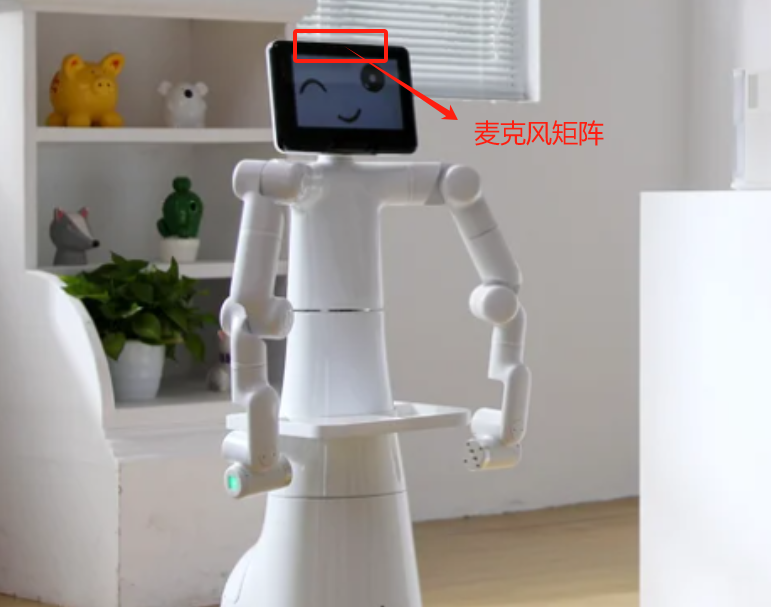
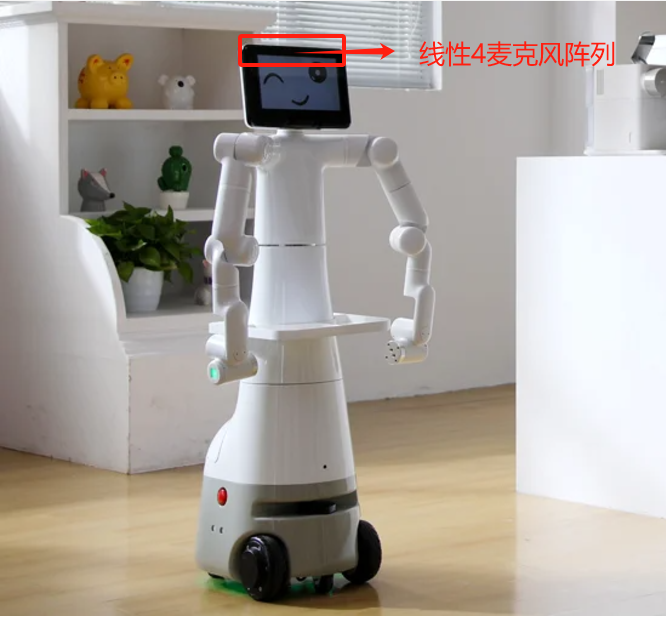
Update 6.1.7-VoiceFunction.md

diff --git a/6-SDKDevelopment/6.1-Python/6.1.7-VoiceFunction.md b/6-SDKDevelopment/6.1-Python/6.1.7-VoiceFunction.md
@@ -12,51 +12,15 @@ The linear microphone array pickup picks up sound sources within a specified ang
 
 [https://github.com/elephantrobotics/mercury_speech](https://github.com/elephantrobotics/mercury_speech)
 
-# Functional framework
+# Code flow
 
 Offline wake-up -> recording -> online voice dictation -> online speech synthesis -> play audio
 
-# r818 noise reduction board replaces offline wake-up word
+Code running process: After running the python script, say the wake-up word (Xiaoxiaoxiaowei), start recording after hearing the wake-up word (default 4s), generate a .pcm audio file, and then upload the recording file to iFlytek online, and get the text output by voice dictation. At the same time, upload the text of the conversation to iFlytek online, synthesize the conversation audio and play it out.
 
-1.On Windows computer, open the AIUI serial port debugging tool.
+Online voice dictation and online speech synthesis services need to be applied for by yourself.
 
-![1](../../resources/6-SDKDevelopment/image/VoiceFunction1.png)
-
-2.Select the serial port device corresponding to the signal adapter board. The device name is not unique. Here it is displayed as "COM3".
-
-![2](../../resources/6-SDKDevelopment/image/VoiceFunction2.png)
-
-3.Click "Open Serial Port".
-
-![3](../../resources/6-SDKDevelopment/image/VoiceFunction3.png)
-
-4.In the Send Message box in the lower left corner, fill in the offline wake-up you want to change. For example, Xiaofei Xiaofei corresponds to xiao3 fei1 xiao3 fei1.
-
-```
-{
-    "type": "wakeup_keywords",
-    "content": {
-        "keyword": "xiao3 fei1 xiao3 fei1",
-        "threshold": "900"
-    }
-}
-```
-
-![4](../../resources/6-SDKDevelopment/image/VoiceFunction4.png)
-
-5.Send serial data.
-
-![5](../../resources/6-SDKDevelopment/image/VoiceFunction5.png)
-
-6.After sending the data, wait for about 10 seconds, the device will restart and output version information, indicating that the internal wake-up word has been replaced successfully.
-
-![6](../../resources/6-SDKDevelopment/image/VoiceFunction6.png)
-
-7.Call Xiaofei Xiaofei into the microphone, and the wake-up word and some wake-up angle information will be output.
-
-![7](../../resources/6-SDKDevelopment/image/VoiceFunction7.png)
-
-# iFLYTEK registered user
+# iFLYTEK Application
 
 ```
 https://www.xfyun.cn/
@@ -67,8 +31,6 @@ Log in to the iFlytek open platform, register and log in as a user, and complete
 ![8](../../resources/6-SDKDevelopment/image/VoiceFunction8.png)
 
 ![9](../../resources/6-SDKDevelopment/image/VoiceFunction9.png)
-
-# Obtaining API Authorization
 
 1.Find the console on the main page and click in.
 
@@ -108,7 +70,7 @@ https://www.xfyun.cn/services/online_tts
 
 ![17](../../resources/6-SDKDevelopment/image/VoiceFunction17.png)
 
-7.Just fill in the corresponding parameters of the Python encapsulation interface.
+7.You need to obtain APPID, APISecret, APIKey, Chinese and English parameters, and speech synthesis audio parameters.
 
 ```
 The SpeechManager class is used to manage speech-related functions, including speech wake-up, online speech recognition, online speech synthesis, recording, and playing PCM files.
@@ -124,6 +86,86 @@ Parameters:
 ```
 
 ![18](../../resources/6-SDKDevelopment/image/VoiceFunction18.png)
+
+# Environment Construction
+
+1.Pull code
+
+```
+git clone https://github.com/elephantrobotics/mercury_speech.git
+```
+
+2.Enter the following command in the terminal to install the dependent files.
+
+```
+sudo apt-get install portaudio19-dev python3-dev
+```
+
+```
+cd ~/mercury_speech/
+pip install -r requirement.txt
+```
+
+# Code Sample
+
+1. Check which is the voice module serial port
+
+Enter cutecom in the terminal, open the serial port assistant, and check the serial port device of ttyACM*
+
+The voice module will send a handshake request of "a5 01 01 04 00 00 00 a5 00 00 00 b0" every 500ms.
+
+![22](../../resources/6-SDKDevelopment/image/VoiceFunction22.png)
+
+2. Modify the main.py file terminal port serial port and save it.
+
+3. Enter python main.py in the terminal to run.
+
+```python
+from speechmanager import SpeechManager
+
+if __name__ == "__main__":
+    manager = SpeechManager(APPID='ea8d6b60', 
+                            APISecret='YjcyY2M4NDk0Y2Q4ODY2ZTMxYzk3Y2E3',
+                            APIKey='1bc296f114a83f3f37db4f8ab93837d4',
+                            Recognition_BusinessArgs = {"domain": "iat", "language": "zh_cn", "accent": "mandarin", "vinfo":1,"vad_eos":10000},     #使用中文在线语音听写
+                            # Recognition_BusinessArgs = {"domain": "iat", "language": "en_us", "accent": "mandarin", "vinfo":1,"vad_eos":10000},   #使用英文在线语音听写
+                            Synthesis_BusinessArgs = {"aue": "raw", "auf": "audio/L16;rate=16000", "vcn": "xiaoyan", "tte": "utf8"},                #使用中文在线语音合成
+                            # Synthesis_BusinessArgs = {"aue": "raw", "auf": "audio/L16;rate=16000", "vcn": "x4_enus_luna_assist", "tte": "utf8"},  #使用英文在线语音合成
+                            port = '/dev/ttyACM3',  # 根据实际情况调整串口名称
+                            baudrate = 115200
+                            )
+
+    while True:
+        # 检查是否有新的唤醒信息
+        wakeup_info = manager.get_wakeup_info()
+        if  wakeup_info:
+            print("Wake word detected!")
+            # 处理唤醒信息，例如打印
+            # print(json.dumps(wakeup_info, indent=4))  # 打印抓取的JSON数据
+            # print(f"Wakeup information: {wakeup_info}")
+            print(f"Result: {wakeup_info['content']['result']}")
+            print(f"Info: {wakeup_info['content']['info']}")
+
+            manager.start_recording(4,'/home/elephant/r818.pcm')  # 开始录音4s,并保存为r818.pcm音频文件(绝对路径)
+
+            transcribed_text = manager.online_speech_recognition('/home/elephant/r818.pcm') # 在线语音听写，上传r818.pcm音频文件到科大讯飞在线端
+
+            print(f"Transcribed Text: {transcribed_text}") #打印语音听写生成的文字
+
+            manager.online_speech_synthesis('好的,你的录音我已听到','/home/elephant/reply.pcm') #在线语音合成，上传文字到科大讯飞在线端，并保存reply.pcm音频文件
+
+            manager.play('/home/elephant/reply.pcm') # 播放语音合成的音频文件
+
+            manager.play('/home/elephant/r818.pcm')  # 播放录音的音频文件
+```
+
+![19](../../resources/6-SDKDevelopment/image/VoiceFunction19.png)
+
+# Operation effect
+
+![23](../../resources/6-SDKDevelopment/image/VoiceFunction23.png)
+
+![24](../../resources/6-SDKDevelopment/image/VoiceFunction24.png)
 
 # Functional interface description
 
@@ -161,49 +203,4 @@ Parameters:
 
 - Get the wake-up information. If there is new data, return the wake-up information and reset the event status.
 
-    return wake_result
-
-# Code Sample
-
-Offline wake-up -> recording -> online voice dictation -> online speech synthesis -> play audio
-
-```python
-from speechmanager import SpeechManager
-
-if __name__ == "__main__":
-    manager = SpeechManager(APPID='ea8d6b60', 
-                            APISecret='YjcyY2M4NDk0Y2Q4ODY2ZTMxYzk3Y2E3',
-                            APIKey='1bc296f114a83f3f37db4f8ab93837d4',
-                            # Recognition_BusinessArgs = {"domain": "iat", "language": "zh_cn", "accent": "mandarin", "vinfo":1,"vad_eos":10000},
-                            Recognition_BusinessArgs = {"domain": "iat", "language": "en_us", "accent": "mandarin", "vinfo":1,"vad_eos":10000},
-                            # Synthesis_BusinessArgs = {"aue": "raw", "auf": "audio/L16;rate=16000", "vcn": "xiaoyan", "tte": "utf8"} 
-                            Synthesis_BusinessArgs = {"aue": "raw", "auf": "audio/L16;rate=16000", "vcn": "x4_enus_luna_assist", "tte": "utf8"} 
-                            )
-
-    while True:
-        # Check for new wake-up messages
-        wakeup_info = manager.get_wakeup_info()
-        if  wakeup_info:
-            print("Wake word detected!")
-            # Handle wake-up messages, such as printing
-            # print(json.dumps(wakeup_info, indent=4))  # Print the captured JSON data
-            # print(f"Wakeup information: {wakeup_info}")
-            print(f"Result: {wakeup_info['content']['result']}")
-            print(f"Info: {wakeup_info['content']['info']}")
-
-            manager.start_recording(4,'/home/elephant/r818.pcm')  # Start recording
-
-            # Online Voice Dictation
-            transcribed_text = manager.online_speech_recognition('./r818.pcm')
-
-            print(f"Transcribed Text: {transcribed_text}")
-            
-            # Online speech synthesis
-            manager.online_speech_synthesis('Hello, welcome to iFLYTEK speech synthesis system.','/home/elephant/reply.pcm')
-            
-            manager.play('/home/elephant/reply.pcm') # Play the audio file for speech synthesis
-
-            manager.play('/home/elephant/r818.pcm')  # Play recorded audio files
-```
-
-![19](../../resources/6-SDKDevelopment/image/VoiceFunction19.png)
+    return: wake_result
